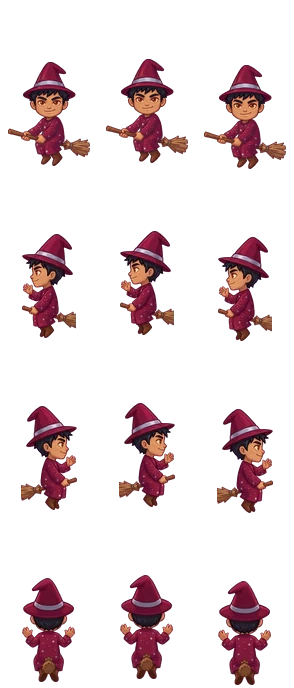
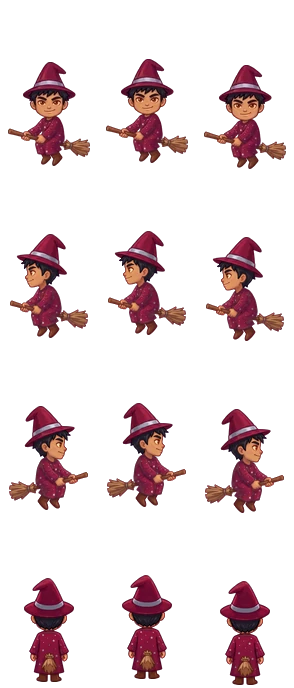
3.3: Draw Zarek flying to a side and from the back with both hands on his broom
Flying to a side Zarek raised a hand off the broom, and flying up both: the
first flying drawing asked for a cocky wave. A racer holds his broom.

- One Gemini image, image 1 of the sprint's 3, figure-zarek-fly: the prompt
  rewritten to draw from the down view accepted in sprint 40, with his
  standing drawing for how he looks from the side and the back, and the
  young wizard's flying views as the pose's reference
  (art/raw/figures/wizard-fly-sides-reference.png, the boy's flying base's
  middle frames, made for it); both hands on the handle said first and
  again at the end. It came back right in all three views at the first
  try, so all three rows are taken and no retry was spent.
- figures.py --drawn-fly-view takes several ways joined by commas, the
  drawing's figures from left to right, each at the height its row has,
  and clears the magenta round each cut as the wizard's flying rows'
  (off_magenta_rim at FLY_RIM); it stops when the drawing's figures and
  the ways named differ in number. zarek-fly.webp's right, left and up
  rows made again; the down row is the one accepted in sprint 40.
- The art guide, the dev guide, the decision log's D188, the manifest and
  SOURCE.md say how his flying rows are drawn now.

Checks: ci/check.sh; figures-check.png looked at; e2e chapter-4's race,
rematch, rings and stories.

diff --git a/tools/art/figures.py b/tools/art/figures.py
@@ -62,8 +62,8 @@ A figure with no sheet before it, a pupil a year older (DRAWN: Zarek, Rinlo), is
 from a drawing of it standing still in the four views (--drawn), each view as tall as
 DRAWN says, its walking rows its standing frame three times; and its flying rows from a
 drawing of it riding the broom in the same four views (--drawn-fly), scaled as its
-standing views, bobbing as the wizard's; one view may be drawn again alone
-(--drawn-fly-view), as tall as the one it replaces. figures.json says its rows in
+standing views, bobbing as the wizard's; some views may be drawn again
+(--drawn-fly-view), each as tall as the one it replaces. figures.json says its rows in
 `sheets`.
 
 Each look's portrait (--portraits, D194) is its gender's base bust (PORTRAIT_BASES, cut
@@ -775,21 +775,33 @@ def make_drawn_fly(name: str, drawing: Path) -> Path:
     return drawn_sheet(name)
 
 
-def make_drawn_fly_view(name: str, way: str, drawing: Path) -> Path:
-    """One view of a drawn figure's flying rows drawn again (--drawn-fly-view): the
-    figure of a drawing of that view alone, as tall in its frame as the view it
-    replaces, bobbing, in its row of the flying base; its sheet made."""
+def make_drawn_fly_view(name: str, ways: str, drawing: Path) -> Path:
+    """Views of a drawn figure's flying rows drawn again (--drawn-fly-view): `ways`, one
+    way or several joined by commas, the drawing's figures from left to right; each as
+    tall in its frame as the view it replaces, the magenta round it cleared as the
+    wizard's flying rows' are, bobbing, in its row of the flying base; its sheet made."""
+    import sprites  # noqa: PLC0415 - the cut's tools, only for the bases
+
     about = json.loads((FIGURES / "figures.json").read_text(encoding="utf-8"))
     frame = tuple(about["frame"])
     fw, fh = frame
-    row = about["ways"].index(way)
+    wanted = ways.split(",")
+    views = drawn_views(Image.open(drawing))
+    if len(views) != len(wanted):
+        raise SystemExit(f"{drawing} has {len(views)} figures, and {len(wanted)} ways are named")
     base = Image.open(BASE_DIR / f"{name}-fly.webp").convert("RGBA")
-    level = np.array(base.crop((0, row * fh, fw, (row + 1) * fh)))[..., 3] > 0
-    filled = np.flatnonzero(level.any(axis=1))
-    tall = int(filled.max() - filled.min()) + 1
-    (view,) = drawn_views(Image.open(drawing))
-    cell = alone(framed(view, tall / view.height, about))
-    base.paste(bobbing(cell, frame), (0, row * fh))
+    for way, view in zip(wanted, views, strict=True):
+        row = about["ways"].index(way)
+        level = np.array(base.crop((0, row * fh, fw, (row + 1) * fh)))[..., 3] > 0
+        filled = np.flatnonzero(level.any(axis=1))
+        tall = int(filled.max() - filled.min()) + 1
+        cell = alone(framed(view, tall / view.height, about))
+        cell = Image.fromarray(
+            sprites.off_magenta_rim(
+                np.array(cell), margin=FLY_MARGIN, depth=FLY_RIM, bright=FLY_BRIGHT
+            )
+        )
+        base.paste(bobbing(cell, frame), (0, row * fh))
     base.save(BASE_DIR / f"{name}-fly.webp", quality=90, method=6)
     return drawn_sheet(name)
 
@@ -1105,8 +1117,8 @@ def main() -> int:
     parser.add_argument(
         "--drawn-fly-view",
         nargs=3,
-        metavar=("FIGURE", "WAY", "DRAWING"),
-        help="draw one view of a drawn figure's flying rows again",
+        metavar=("FIGURE", "WAYS", "DRAWING"),
+        help="draw views of a drawn figure's flying rows again (ways joined by commas)",
     )
     parser.add_argument(
         "--drawn", nargs=2, metavar=("FIGURE", "DRAWING"), help="make a figure from a drawing"

diff --git a/tools/art/prompts/figure-zarek-fly.md b/tools/art/prompts/figure-zarek-fly.md
@@ -2,8 +2,16 @@
 candidate: figures
 service: gemini
 model: gemini-3-pro-image
-image: art/raw/figures/figure-zarek-standing.png
+image: ["art/raw/figures/figure-zarek-fly-down.png", "art/raw/figures/figure-zarek-standing.png", "art/raw/figures/wizard-fly-sides-reference.png"]
 aspect_ratio: 16:9
 image_size: 2K
 ---
-Edit this picture: it shows four views of the same boy, Zarek, a pupil of a school of magic, on a flat pure magenta background: the first faces the viewer, the second faces to the right, the third faces to the left, and the fourth has his back to the viewer. Make him ride a flying broom in every view, as a confident, show-off flyer: he sits astride a wooden broom, both legs together hanging down on either side of it, one hand on the handle in front of him and the other raised a little in a cocky wave, the feet off the ground. The broom is short and points the way he faces: in the first view its handle comes towards the viewer below his hands and its small bundle of twigs shows behind him; in the second the handle points to the right and the twigs stick out on the left; in the third the handle points to the left and the twigs stick out on the right; in the fourth the handle points away and the twigs show in front, below him. Each view stays in its own place, alone, with wide empty gaps between them. Keep everything else exactly as it is: his face, his black hair, the crimson hat with its silver band, the crimson robe with its silver stars, the boots, the colours, his size, and the flat pure magenta (#FF00FF) background everywhere round him. The same painted cartoon style, bold dark outlines, soft shading. No text, no other new objects, no shadows, no ground.
+Both of Zarek's hands hold the broom's handle in every view, and no hand is raised.
+
+The first picture shows Zarek, a pupil of a children's game about a school of magic, riding a flying broom facing the viewer, both hands on its handle. The second picture shows him standing in four views, so that you see how he looks from the side and from the back. The third picture shows how the game's young wizard rides the broom in three views: facing right, facing left, and with his back to the viewer.
+
+Draw Zarek riding the broom in those same three views, side by side, each alone, with wide empty gaps between them. First, facing right: the broom's handle points to the right in front of him and its bundle of twigs sticks out behind him on the left. Second, facing left: the handle points to the left and the twigs stick out on the right. Third, with his back to the viewer: the twigs show below him. In every view he sits astride the broom, his legs together hanging down, both hands holding the handle in front of him, exactly as the young wizard does in the third picture.
+
+Keep everything of Zarek exactly as in the first two pictures: his face and confident grin, his short spiky black hair, his light brown skin, his pointed deep crimson hat with its silver band, his crimson robe with small silver stars, his brown boots, his size and proportions, chibi, and the same painted style: painted cartoon 2D game art, bold dark outlines, warm saturated colours, soft painted shading. A flat pure magenta (#FF00FF) background everywhere around him, with no shadow, no ground, no text, no frame.
+
+Once more: in all three views both of his hands are on the broom's handle; no hand is raised or waving.

diff --git a/docs/dev/dev-environment.md b/docs/dev/dev-environment.md
@@ -788,20 +788,29 @@ the figure's sheet in `content/art/figures/`:
 .venv/bin/python tools/art/figures.py --drawn zarek art/raw/figures/figure-zarek-standing.png
 ```
 
-Its flying rows come from a drawing of it riding the broom in the same
-views, `figure-zarek-fly.md`:
+Its flying rows come from a drawing of it riding the broom in the four
+views. This cuts them all into the flying rows:
 
 ```sh
 .venv/bin/python tools/art/figures.py --drawn-fly zarek art/raw/figures/figure-zarek-fly.png
 ```
 
-One view of the flying rows can be drawn again on its own. Gemini draws
-it from a prompt of its own, such as `figure-zarek-fly-down.md`. This puts
-it in place of that view, at the height the row has:
+Some views of the flying rows can be drawn again. Gemini draws them from a
+prompt of their own: Zarek's down view from `figure-zarek-fly-down.md`, and
+his right, left and back views from `figure-zarek-fly.md`. This puts each
+figure of the drawing, from left to right, in place of the view named, at
+the height its row has. Name one way, or several joined by commas:
 
 ```sh
 .venv/bin/python tools/art/figures.py --drawn-fly-view zarek down art/raw/figures/figure-zarek-fly-down.png
+.venv/bin/python tools/art/figures.py --drawn-fly-view zarek right,left,up art/raw/figures/figure-zarek-fly.png
 ```
+
+It says so and stops when the drawing has another number of figures than
+the ways named. The pose `figure-zarek-fly.md` is drawn from is
+`art/raw/figures/wizard-fly-sides-reference.png`: the boy's flying base's
+middle frames facing right, facing left and from the back, four times their
+size, on flat magenta.
 
 Run `--check` after either, and look at the figure's sheet at the end of
 `figures-check.png`.

diff --git a/art/README.md b/art/README.md
@@ -682,10 +682,12 @@ the reference for the style and the proportions (`figure-zarek-standing.md`,
 `figure-rinlo-standing.md`), and cut into a sheet whose walking rows are the standing
 frame three times (`tools/art/figures.py --drawn`). Each view is a little taller in its
 frame than a first-year's, between the children's and the grown-ups'. Zarek, who races,
-has flying rows from Gemini's drawing of him riding the broom in the same four views
-(`figure-zarek-fly.md`, `--drawn-fly`); a view drawn again on its own, his down view
-with the handle ahead and the twigs behind (`figure-zarek-fly-down.md`), takes the place
-of that view in his flying rows at the height the row had (`--drawn-fly-view`).
+has flying rows drawn by Gemini riding the broom as a racer does, both hands on its
+handle: facing the viewer, the handle ahead and the twigs behind
+(`figure-zarek-fly-down.md`), and from that view, facing right, facing left and from
+the back (`figure-zarek-fly.md`, with the young wizard's flying views as the pose's
+reference). Each view takes its row at the height the row has (`--drawn-fly-view`), the
+magenta round it cleared as the wizard's flying rows' is.
 
 ### Portraits
 

diff --git a/docs/dev/architecture.md b/docs/dev/architecture.md
@@ -2712,8 +2712,9 @@ one overturns stays, marked as superseded.
   (`figure-zarek-standing.md`, `figure-rinlo-standing.md`), each view a little taller in
   its frame than a first-year's, between the children's and the grown-ups' (`DRAWN`,
   `figures.py --drawn`); their walking rows are the standing frame three times. Zarek has
-  flying rows from Gemini's drawing of him riding the broom in the same views
-  (`figure-zarek-fly.md`, `--drawn-fly`); Rinlo stands only. `figures.json`'s `sheets`
+  flying rows from Gemini's drawings of him riding the broom in the same views, both
+  hands on its handle, as a racer holds it (`figure-zarek-fly-down.md`,
+  `figure-zarek-fly.md`, `--drawn-fly-view`); Rinlo stands only. `figures.json`'s `sheets`
   says each one's rows. Ilda's sheet stands. Rules out a wizard flying in its walking
   frames.
 - **D189 — The race: Ilda's count.** Decided 2026-11-10 by the owner (*ticks + líneas +

diff --git a/content/art/figures/SOURCE.md b/content/art/figures/SOURCE.md
@@ -33,6 +33,7 @@ later, like the rest of it.
   standing still in the four views (`figure-zarek-standing.md`,
   `figure-rinlo-standing.md`), drawn with the pupils' and the teachers' figures as
   their reference, cut by `tools/art/figures.py --drawn` at a height between the
-  children's and the grown-ups'; Zarek's flying rows are Gemini's edit of his drawing
-  riding a broom (`figure-zarek-fly.md`), cut by `--drawn-fly`, his down view a drawing
-  of its own (`figure-zarek-fly-down.md`), put in its row by `--drawn-fly-view`.
+  children's and the grown-ups'; Zarek's flying rows are Gemini's drawings of him
+  riding a broom, both hands on its handle: his down view (`figure-zarek-fly-down.md`),
+  and from it his right, left and back views (`figure-zarek-fly.md`), each put in its
+  row by `--drawn-fly-view`.
